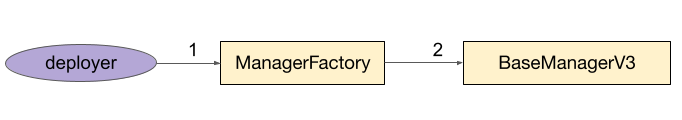
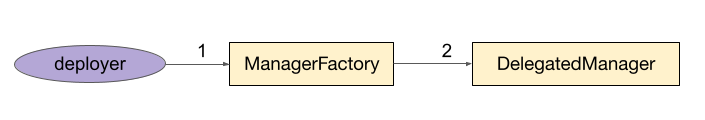
use DelegatedManager naming, add require statement in pseudocode

Changed region(s): [[0.0, 0.325, 0.9853, 0.725], [0.1848, 0.425, 0.2155, 0.45]]

diff --git a/STIPS/STIP-009.md b/STIPS/STIP-009.md
@@ -74,9 +74,9 @@ The recommended solution deploys single-use, modular manager contracts from a ma
 
 ![Proposed Architecture Changes](../assets/stip-009/image1.png "")
 
-**ManagerFactory**: Factory smart contract which provides asset managers (`deployer`) the ability to `create` new Set Tokens with a BaseManagerV3 manager, `migrate` existing Set Tokens to a BaseManagerV3 manager, and `initialize` modules and enable extensions.
+**ManagerFactory**: Factory smart contract which provides asset managers (`deployer`) the ability to `create` new Set Tokens with a DelegatedManager manager, `migrate` existing Set Tokens to a DelegatedManager manager, and `initialize` modules and enable extensions.
 
-**BaseManagerV3**: Manager smart contract which provides asset managers three permissioned roles (`owner`, `methodologist`, `operator`) and asset whitelist functionality. The `owner` grants permissions to `operator`(s) to interact with extensions. The `owner` can restrict the `operator`(s) permissions with an asset whitelist.
+**DelegatedManager**: Manager smart contract which provides asset managers three permissioned roles (`owner`, `methodologist`, `operator`) and asset whitelist functionality. The `owner` grants permissions to `operator`(s) to interact with extensions. The `owner` can restrict the `operator`(s) permissions with an asset whitelist.
 
 **BasicIssuanceExtension**: Global extension which provides users with the ability to `issue` and `redeem` Set Tokens with a smart contract manager.
 
@@ -93,7 +93,7 @@ The recommended solution deploys single-use, modular manager contracts from a ma
 - Allow `deployer` to enable extensions and initialize corresponding modules
 - Allow `deployer` to create manager smart contract and initialize and parameterize all modules and extensions in two transactions
 
-**BaseManagerV3**
+**DelegatedManager**
 
 - Allow `owner` to add and remove global `operator` permissions on extensions
 - Allow `owner` to limit `operator`(s) functionality on extensions with an asset whitelist
@@ -129,9 +129,9 @@ The recommended solution deploys single-use, modular manager contracts from a ma
 
 ![ManagerFactory create](../assets/stip-009/image2.png "")
 
-An `deployer` wants to create a new Set Token with a BaseManagerV3 smart contract manager.
+An `deployer` wants to create a new Set Token with a DelegatedManager smart contract manager.
 
-1. The `deployer` calls create() passing in parameters to create a Set Token, parameters for the permissioning on BaseManagerV3, and the desired extensions. Specifically,
+1. The `deployer` calls create() passing in parameters to create a Set Token, parameters for the permissioning on DelegatedManager, and the desired extensions. Specifically,
 
     - components: List of addresses of components for initial positions
     - units: List of units for initial positions
@@ -145,16 +145,16 @@ An `deployer` wants to create a new Set Token with a BaseManagerV3 smart contrac
     - extensions: List of addresses of global extensions to be enabled
 
 2. A Set Token is deployed using SetTokenCreator
-3. A BaseManagerV3 is deployed with the ManagerFactory as the temporary `owner` until after initialization
-4. The `deployer`, `owner`, and BaseManagerV3 are stored on the Factory in pending state
+3. A DelegatedManager is deployed with the ManagerFactory as the temporary `owner` until after initialization
+4. The `deployer`, `owner`, and DelegatedManager are stored on the Factory in pending state
 
 ### ManagerFactory.migrate()
 
 ![ManagerFactory migrate](../assets/stip-009/image3.png "")
 
-An `deployer` wants to migrate an existing Set Token to a BaseManagerV3 smart contract manager.
+An `deployer` wants to migrate an existing Set Token to a DelegatedManager smart contract manager.
 
-1. The `deployer` calls migrate() passing in the Set Token address, parameters for the permissioning on BaseManagerV3, and the desired extensions. Specifically,
+1. The `deployer` calls migrate() passing in the Set Token address, parameters for the permissioning on DelegatedManager, and the desired extensions. Specifically,
 
     - owner: The address of the `owner`
     - methodologist: The address of the `methodologist`
@@ -162,8 +162,8 @@ An `deployer` wants to migrate an existing Set Token to a BaseManagerV3 smart co
     - assets: List of addresses of assets for initial asset whitelist
     - extensions: List of addresses of global extensions to be enabled
 
-2. A BaseManagerV3 is deployed with the ManagerFactory as the temporary `owner` until after initialization
-3. The `deployer`, `owner`, and BaseManagerV3 are stored on the Factory in pending state
+2. A DelegatedManager is deployed with the ManagerFactory as the temporary `owner` until after initialization
+3. The `deployer`, `owner`, and DelegatedManager are stored on the Factory in pending state
 
 ### ManagerFactory.initialize()
 
@@ -173,7 +173,7 @@ The `deployer` wants to enable all extensions, initialize all corresponding modu
 
 1. The `deployer` calls initialize() passing in the parameters for initializing modules and extensions
 2. All modules are initialized via the extensions
-3. The `owner` role on the BaseManagerV3 is transfered from the Factory to the input `owner`
+3. The `owner` role on the DelegatedManager is transfered from the Factory to the input `owner`
 4. The Factory deletes in `InitializeParams` for the set token, removing it from pending state
 
 ### StreamingFeeExtension.accrueFeeAndDistribute()
@@ -183,7 +183,7 @@ The `deployer` wants to enable all extensions, initialize all corresponding modu
 An interested party wants to accrue streaming fees and distribute them to the `owner` and `methodologist`.
 
 1. The interested party calls accrueFeeAndDistribute() on the StreamingFeeExtension
-2. Fees are accrued to the BaseManagerV3
+2. Fees are accrued to the DelegatedManager
 3. Fees are distributed to the `owner` and `methodologist`
 
 
@@ -207,7 +207,7 @@ Reviewer: []
 |------	|------	|-------------	|
 |address|deployer|Address of the deployer|
 |address|owner|Address of the owner|
-|address|manager|Address of the BaseManagerV3|
+|address|manager|Address of the DelegatedManager|
 |bool|isPending|Bool if manager in pending state|  
 
 #### Public Variables
@@ -222,9 +222,11 @@ Reviewer: []
 
 | Name  | Caller  | Description 	|
 |------	|------	|-------------	|
-|create|deployer|Create new Set Token with a BaseManagerV3 manager|
-|migrate|deployer|Migrate existing Set Token to a BaseManagerV3 manager|
+|create|deployer|Create new Set Token with a DelegatedManager manager|
+|migrate|deployer|Migrate existing Set Token to a DelegatedManager manager|
 |initialize|deployer|Initialize modules and extensions|
+
+> create
 
 ```solidity
 function create(
@@ -266,6 +268,8 @@ function create(
 }
 ```
 
+> migrate
+
 ```solidity
 function migrate(
     address memory _setTokenAddress,
@@ -295,6 +299,8 @@ function migrate(
 }
 ```
 
+> initialize
+
 ```solidity
 function initialize(
     address memory _setTokenAddress,
@@ -304,6 +310,7 @@ function initialize(
     external
 {
     require(msg.sender == initialize[setTokenAddress].deployer);
+    require(initialize[setTokenAddress].isPending);
 
     for (uint256 i = 0; i < _extensions.length; i++) {
         _extensions[i].initialize(_extensionParams[_extensions[i]]);
@@ -313,7 +320,7 @@ function initialize(
 }
 ```
 
-### BaseManagerV3
+### DelegatedManager
 
 #### Public Variables
 
@@ -366,7 +373,7 @@ function initialize(
 
 | Type 	| Name 	| Description 	|
 |------	|------	|-------------	|
-|address|manager|Address of the BaseManagerV3|
+|address|manager|Address of the DelegatedManager|
 
 #### Global Variables
 
@@ -404,7 +411,7 @@ function initialize(
 |------	|------	|-------------	|
 |uint256|operatorFeeSplit|Percent of fees in precise units (10^16 = 1%) sent to operator, rest to methodologist|
 |address|operatorFeeRecipient|Address that receives the operator's fees|
-|address|manager|Address of the BaseManagerV3|
+|address|manager|Address of the DelegatedManager|
 
 #### Global Variables
 
@@ -423,7 +430,7 @@ function initialize(
 | Name  | Caller  | Description     |
 |------	|------	|-------------	|
 |accrueFeesAndDistribute|public|Accrue fees and distribute to owner and methodologist|
-|updateStreamingFee|owner|Migrate existing Set Token to a BaseManagerV3 manager|
+|updateStreamingFee|owner|Migrate existing Set Token to a DelegatedManager manager|
 |updateFeeRecipient|owner|Update fee recipient|
 |updateFeeSplit|owner|Update fee split between operator and methodologist
 |updateOperatorFeeRecipient|owner|Update the address that receives the operator's fees|
@@ -443,7 +450,7 @@ function initialize(
 
 | Type 	| Name 	| Description 	|
 |------	|------	|-------------	|
-|address|manager|Address of the BaseManagerV3|
+|address|manager|Address of the DelegatedManager|
 
 #### Global Variables
 
